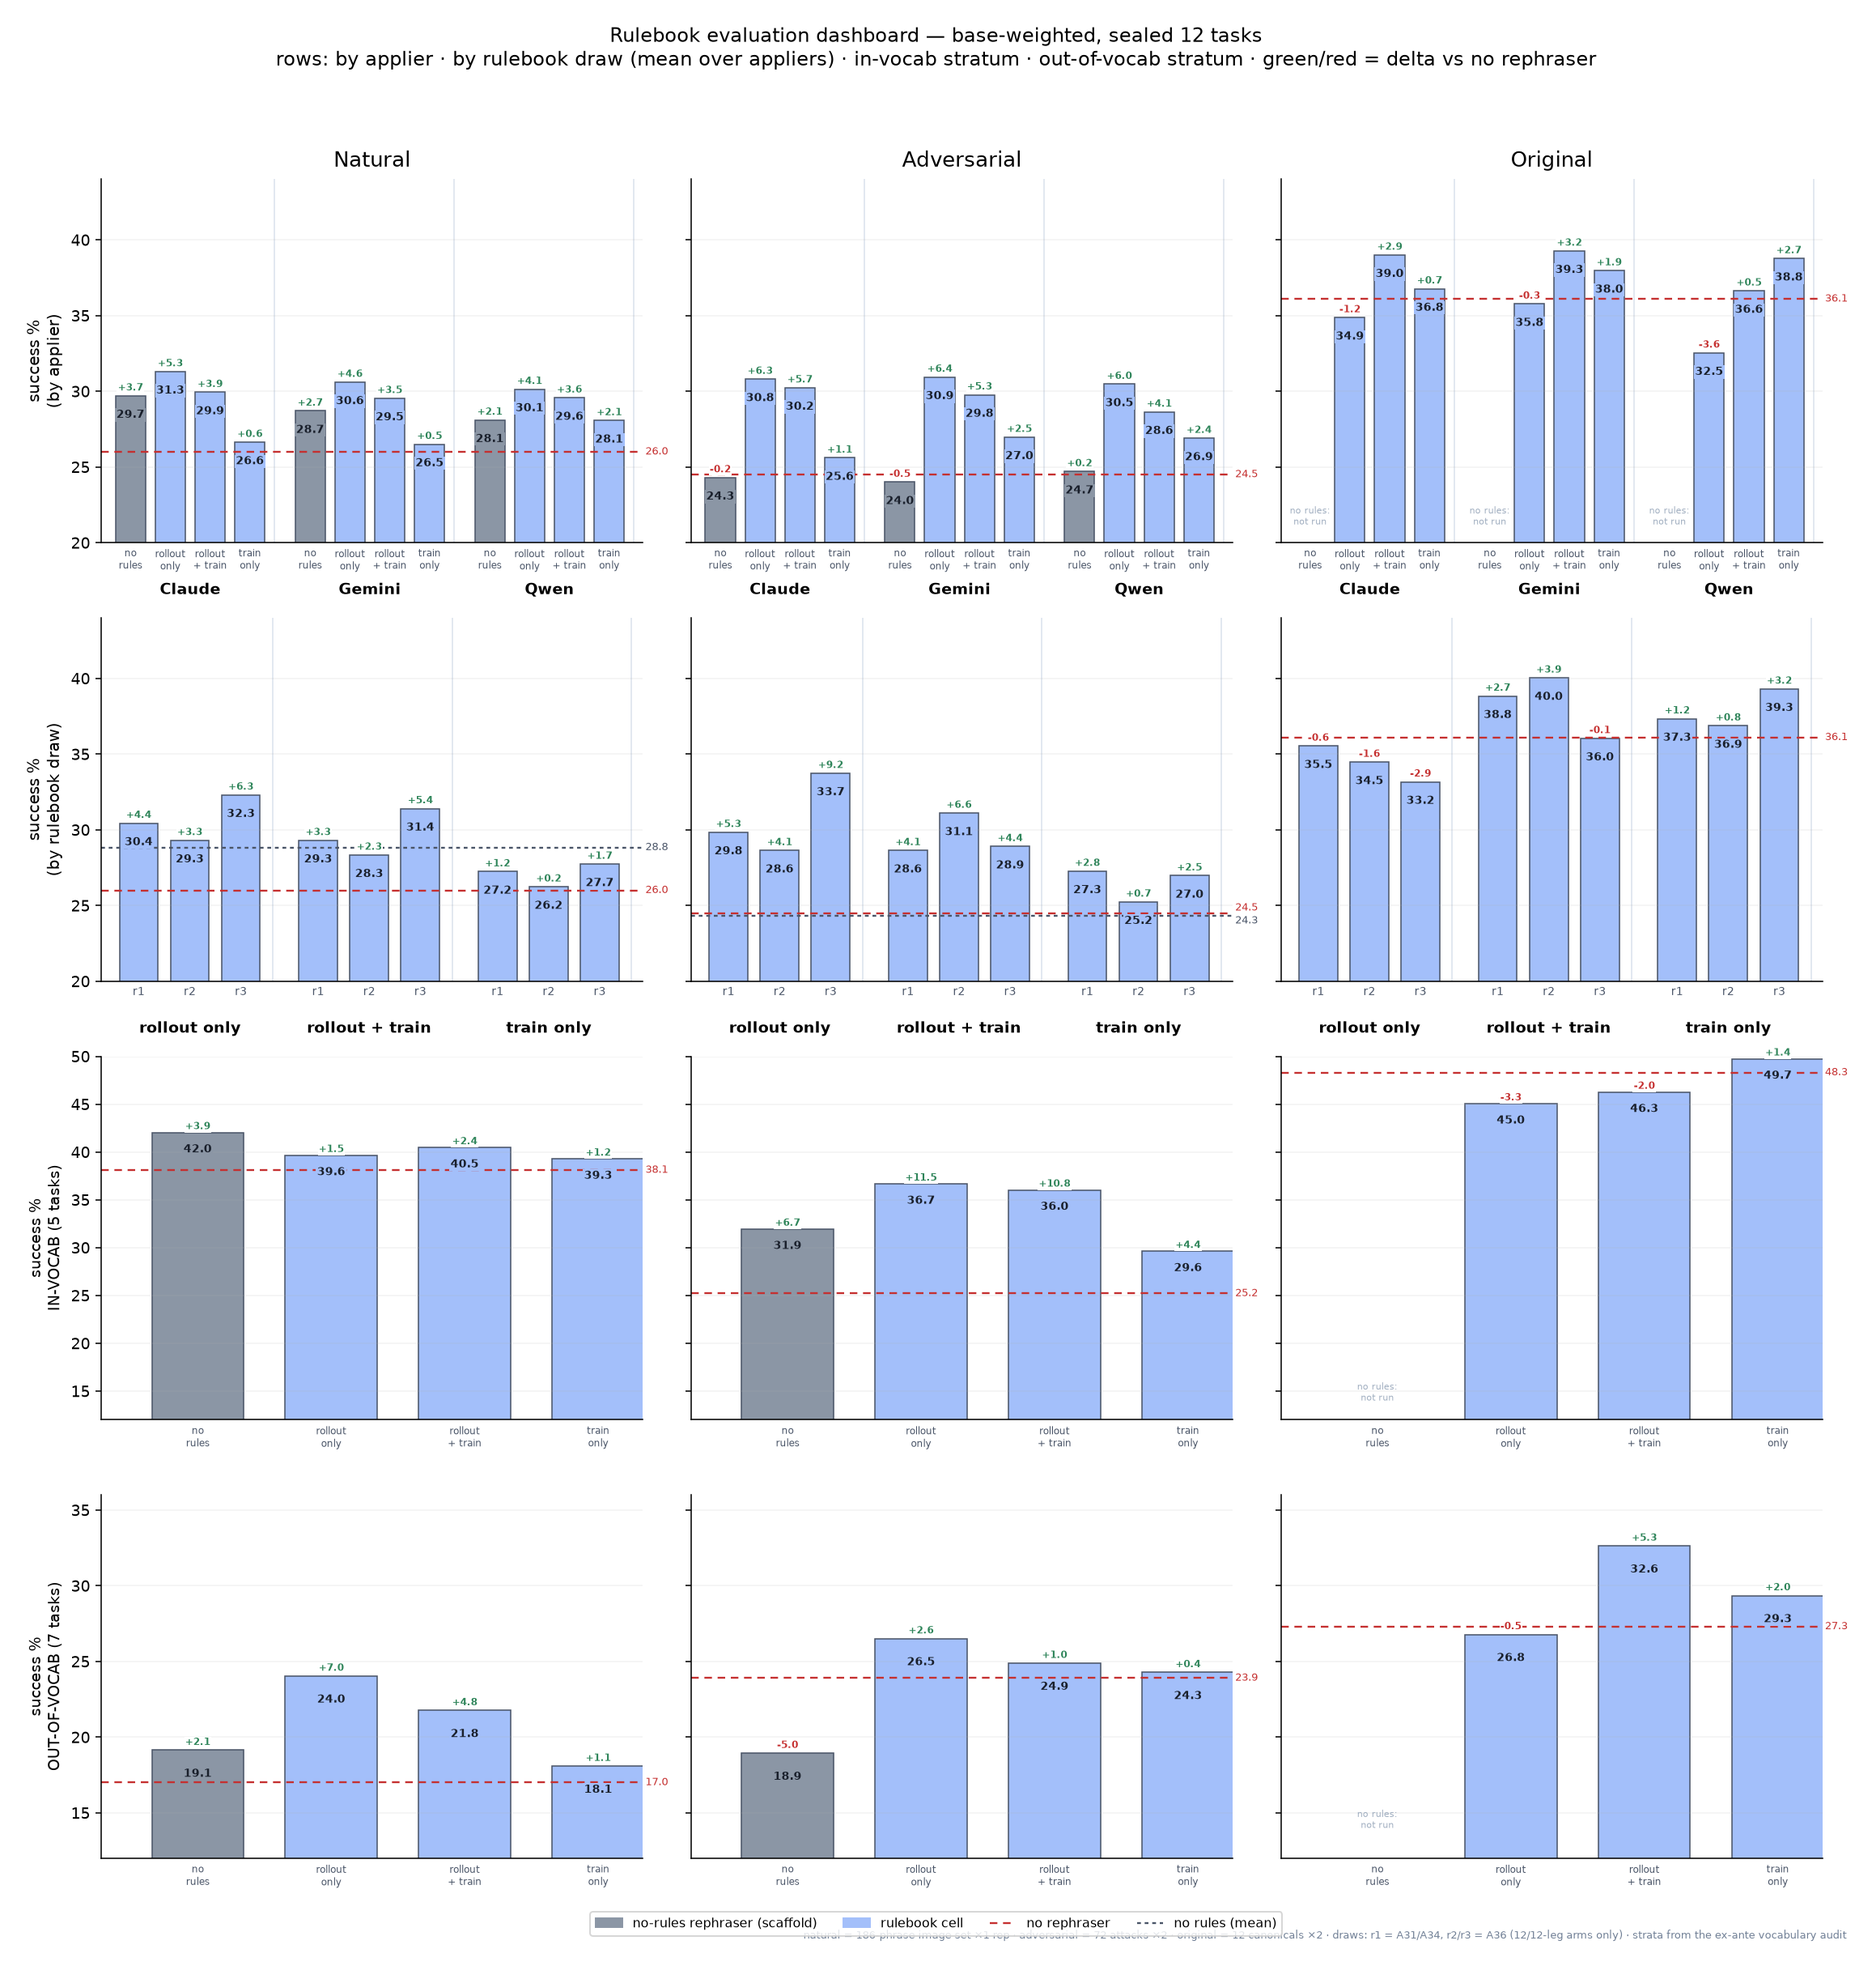
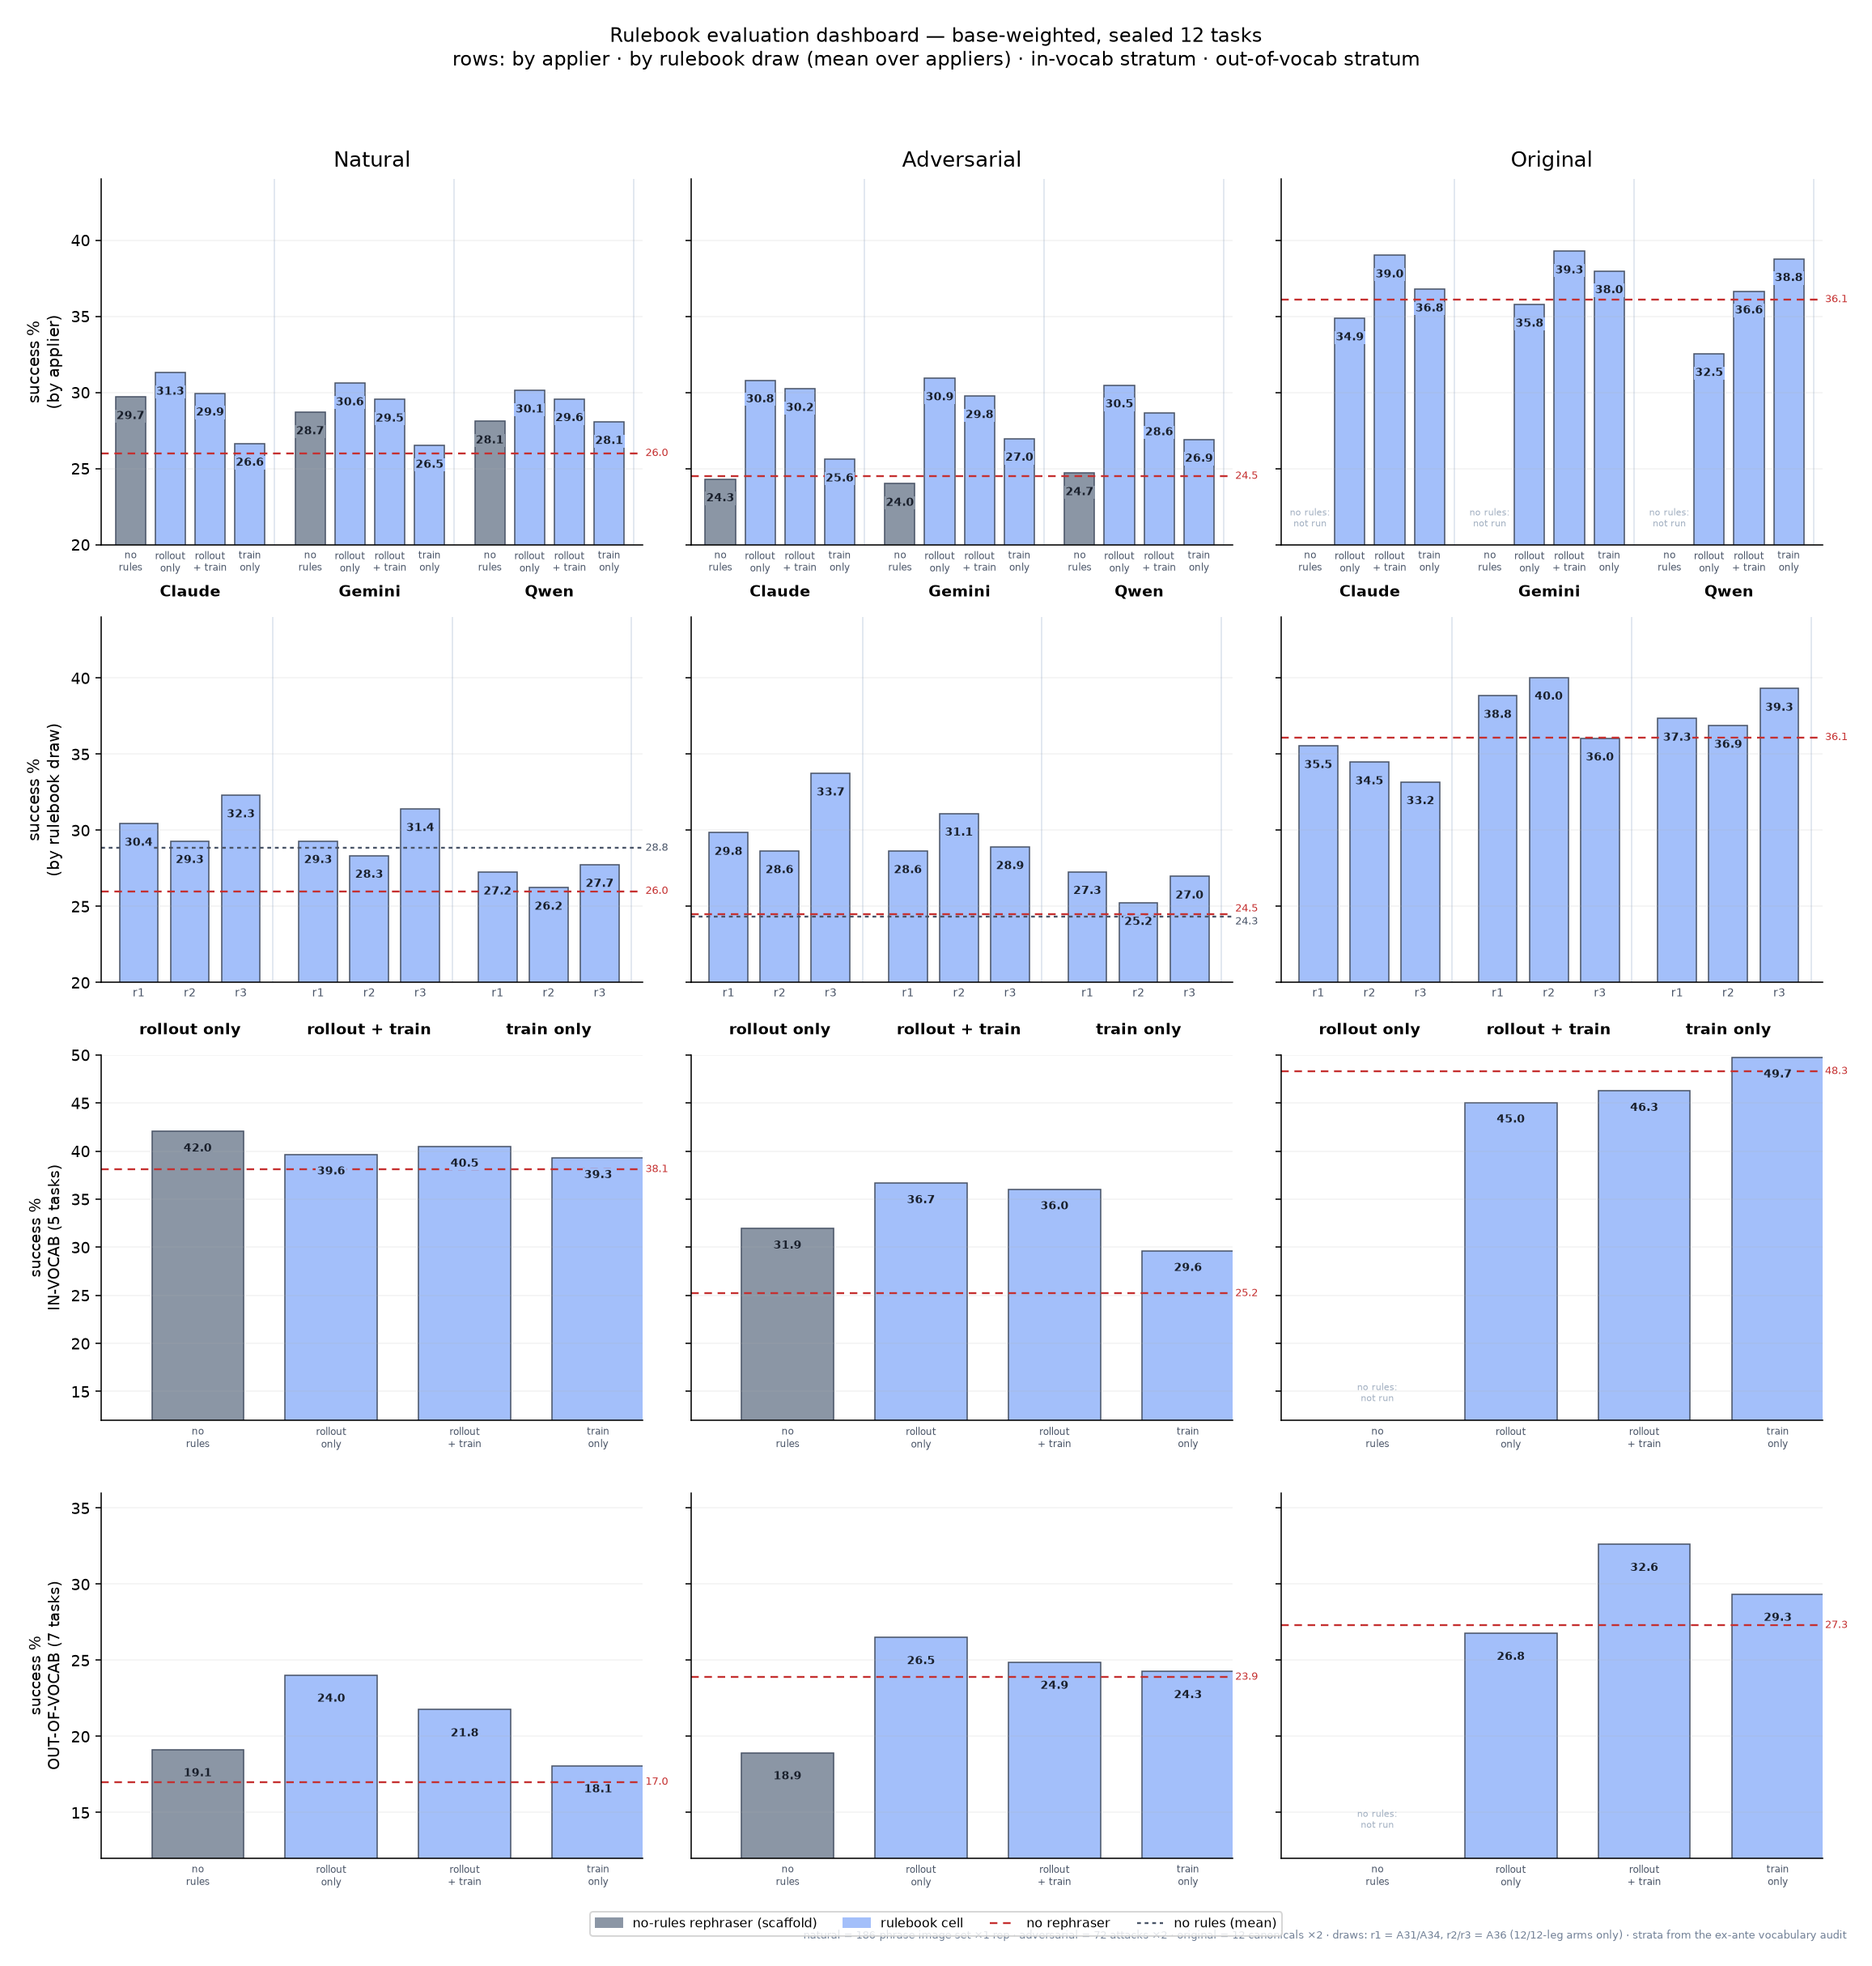
dashboard: remove delta annotations

diff --git a/scripts/make_rules_dashboard.py b/scripts/make_rules_dashboard.py
@@ -67,16 +67,11 @@ def scaffold(cond, ap=None, st="pooled"):
 
 
 def bar_annot(ax, x, v, base, dy=0.9, fc=None):
-    """Value inside the bar top; signed delta vs the no-rephraser base above.
-    Solid text boxes (bar-colored inside, white above) keep the dashed
-    baseline from striking through the numbers."""
+    """Value inside the bar top; the bar-colored text box keeps the dashed
+    baseline from striking through the number. (base kept for call symmetry.)"""
     ax.text(x, v - dy, f"{v:.1f}", ha="center", va="top", fontsize=7.0,
             fontweight="bold", color="#1a202c", zorder=6,
             bbox=dict(boxstyle="square,pad=0.10", fc=fc or C_RULES, ec="none"))
-    d = v - base
-    ax.text(x, v + 0.35, f"{d:+.1f}", ha="center", fontsize=6.2,
-            fontweight="bold", color="#2f855a" if d >= 0 else "#c53030", zorder=6,
-            bbox=dict(boxstyle="square,pad=0.10", fc="white", ec="none"))
 
 
 fig, axes = plt.subplots(4, 3, figsize=(16.4, 17.0), sharey="row")
@@ -212,8 +207,7 @@ PAPER = os.environ.get("PAPER") == "1"   # paper variant: no title/footer, the
 if not PAPER:                            # LaTeX caption carries that text
     fig.suptitle("Rulebook evaluation dashboard — base-weighted, sealed 12 tasks\n"
                  "rows: by applier · by rulebook draw (mean over appliers) · "
-                 "in-vocab stratum · out-of-vocab stratum · "
-                 "green/red = delta vs no rephraser",
+                 "in-vocab stratum · out-of-vocab stratum",
                  fontsize=12.5, y=0.995)
     fig.text(0.99, 0.002,
              "natural = 186-phrase image set ×1 rep · adversarial = 72 attacks ×2 · original = 12 canonicals ×2 · "

diff --git a/paper/main.tex b/paper/main.tex
@@ -158,11 +158,10 @@ repository.\footnote{\url{https://github.com/sttawm/phrase-rl/tree/main/paper/ru
     the 12 sealed tasks, by condition (columns: natural, adversarial,
     original). Rows: by applier (bars = mean over three independent
     rulebook draws); by rulebook draw (bars = mean over appliers); the
-    in-vocab stratum (5 tasks); the out-of-vocab stratum (7 tasks). The
-    number inside each bar is absolute success; the signed number above it
-    is the change vs.\ the un-rephrased baseline (dashed red line; dashed
-    grey line = the no-rules scaffold mean). Grey bars = the no-rules
-    rephraser scaffold, blue bars = rulebook cells. Natural = the
+    in-vocab stratum (5 tasks); the out-of-vocab stratum (7 tasks). Dashed
+    red line = the un-rephrased baseline; dashed grey line = the no-rules
+    scaffold mean. Grey bars = the no-rules rephraser scaffold, blue bars
+    = rulebook cells. Natural = the
     186-phrase image-conditioned set ($\times$1 rep); adversarial = 72
     attacks ($\times$2); original = 12 canonical instructions ($\times$2);
     strata from the ex-ante vocabulary audit.}
